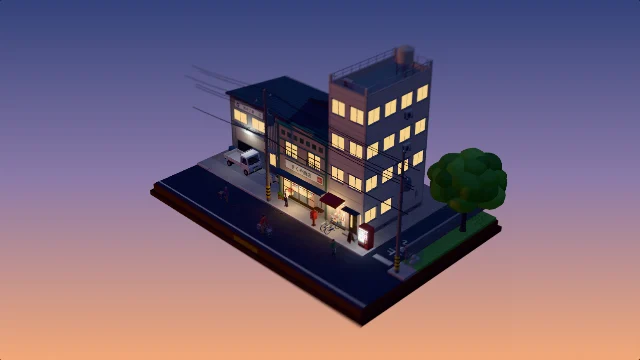
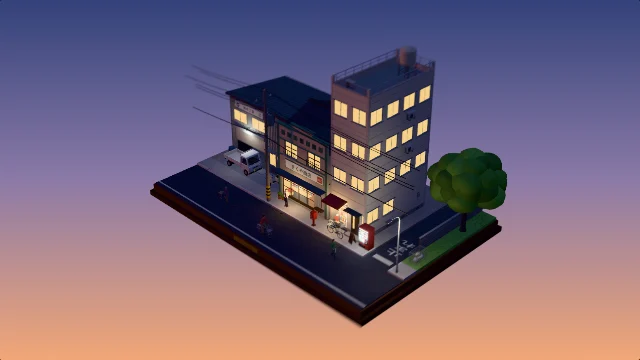
Stage 24: review fixes — one pole under the wires, wall inside the plot, room for the AC unit, bicycles along the curb, shared onRoad, named presets

Changed region(s): [[0.5, 0.1222, 0.7188, 0.8556], [0.5312, 0.1833, 0.5625, 0.2139]]

diff --git a/features/diorama/utils/shoppingStreetStarter.ts b/features/diorama/utils/shoppingStreetStarter.ts
@@ -1,10 +1,9 @@
-import { BUILDING_PRESETS } from "../assets/buildingPresets";
+import { NARROW_BUILDING_PRESET } from "../assets/buildingPresets";
 import type { DioramaObject, SurfaceMap } from "../types/diorama.types";
 import { BASE_TEMPLATES } from "./baseTemplates";
-import { BUILDING_GRID } from "./buildingParams";
-import { CORNER } from "./cornerLayout";
+import { BUILDING_GRID, buildingSize } from "./buildingParams";
 import { attach, createDioramaObject, place, run, runObject } from "./objectDefaults";
-import { patch, surfaceFrom, type GroundRect } from "./plotStarter";
+import { onRoad, patch, surfaceFrom, type GroundRect } from "./plotStarter";
 
 /**
  * The "Old Shopping Street" starter (plan/Stage-24-Implementation.md D3): a
@@ -12,20 +11,21 @@ import { patch, surfaceFrom, type GroundRect } from "./plotStarter";
  * the shop side. From the left: the workshop, set back behind a concrete
  * apron with a kei truck before its half-raised shutter; the old shop with
  * its tobacco window; the narrow four-storey building with a water tank on
- * its roof; a vending machine at the mouth of a back alley; beyond the alley
- * a walled lot with a tree. X runs −12 … 12, Z −8 … 8 (front). All numbers
+ * its roof; a vending machine and a street light at the mouth of a back
+ * alley; beyond the alley a walled lot with a tree. X runs −12 … 12, Z −8 … 8 (front). All numbers
  * are meters.
  */
 const WIDTH = 24;
 const DEPTH = 16;
-const ROAD_Y = CORNER.roadY;
 
 const SIDEWALK_Z = 2; // building fronts; the sidewalk runs from here to the street
 const STREET_Z = 3.5;
 const ALLEY = { x0: 8, x1: 10.5 };
 const WORKSHOP = { x: -7, z: -3.185 }; // its front at z 0, behind the apron
 const SHUTTER_X = WORKSHOP.x - 1.49; // building_workshop_01: the shutter's middle
-const NARROW = { x: 4.77, z: SIDEWALK_Z - (4 * BUILDING_GRID.bay) / 2 };
+const NARROW = buildingSize(NARROW_BUILDING_PRESET.params);
+// Clear of the old shop's AC unit (its right side, at x 3.13) and of the vending machine.
+const NARROW_X = 5.0;
 
 const GROUND: GroundRect[] = [
   ["concrete", -11.1, -2.9, 0, SIDEWALK_Z],
@@ -41,28 +41,24 @@ export function getShoppingStreetSurface(): SurfaceMap {
   return surfaceFrom(WIDTH, DEPTH, GROUND);
 }
 
-/** On the street or the alley, whose surface is lower than the lots. */
-function onRoad(object: DioramaObject): DioramaObject {
-  return { ...object, position: [object.position[0], ROAD_Y, object.position[2]] };
-}
-
 /** The narrow building with a water tank and AC units on its roof and its open side. */
 function narrowBuilding(): DioramaObject[] {
-  const { bay, groundFloor, upperFloor } = BUILDING_GRID;
+  const { groundFloor, upperFloor } = BUILDING_GRID;
   const building = createDioramaObject("building", 0, BASE_TEMPLATES.plot, {
-    position: [NARROW.x, 0, NARROW.z],
+    position: [NARROW_X, 0, SIDEWALK_Z - NARROW.depth / 2],
     rotation: [0, 0, 0],
-    params: BUILDING_PRESETS.find((preset) => preset.id === "narrow-building-4f")!.params,
+    params: NARROW_BUILDING_PRESET.params,
   });
-  const side = bay; // half its width
-  const roof = groundFloor + 3 * upperFloor;
+  const side = NARROW.width / 2;
+  const back = -NARROW.depth / 2;
+  const roof = NARROW.wallHeight;
   return [
     building,
-    attach(building, "waterTank", [0.4, roof, -2.2]),
-    attach(building, "airConditioner", [-0.9, roof, 2.6]),
+    attach(building, "waterTank", [0.4, roof, back + 1.44]),
+    attach(building, "airConditioner", [-0.9, roof, -back - 1.04]),
     attach(building, "airConditioner", [side + 0.2, groundFloor + upperFloor + 0.15, -0.9], Math.PI / 2),
     attach(building, "airConditioner", [side + 0.2, groundFloor + 2 * upperFloor + 0.15, -0.9], Math.PI / 2),
-    attach(building, "meterBox", [side, 1.25, -2.7], Math.PI / 2),
+    attach(building, "meterBox", [side, 1.25, back + 0.94], Math.PI / 2),
   ];
 }
 
@@ -86,23 +82,24 @@ export function getShoppingStreetObjects(): DioramaObject[] {
 
     // The narrow building, bicycles and an A-frame sign before it, a vending machine at the alley
     ...narrowBuilding(),
-    place("bicycle", 3.55, 2.65, half + 0.05),
-    place("bicycle", 4.15, 2.7, half - 0.06),
-    place("aFrameSign", 6.1, 2.75, -0.25),
-    place("vendingMachine", 7.35, 2.45),
+    // Bicycles parked along the curb: 1.8 m long, they do not fit across a 1.5 m sidewalk
+    place("bicycle", 4.3, 2.45, 0.05),
+    place("bicycle", 4.65, 3.0, Math.PI - 0.06),
+    place("aFrameSign", 6.25, 2.75, -0.25),
+    place("vendingMachine", 7.4, 2.45),
     place("postBox", 2.45, 3.15),
 
-    // Beyond the alley: a walled lot with a tree and the garbage cage at its corner
-    runObject("blockWall", [ALLEY.x1 + 0.075, -8], [ALLEY.x1 + 0.075, 1.2]),
+    // Beyond the alley: a walled lot with a tree, and the garbage cage where the wall ends
+    runObject("blockWall", [ALLEY.x1 + 0.075, -8], [ALLEY.x1 + 0.075, 0]),
     place("zelkovaTree", 11.2, -4.6, 0.7),
-    place("garbageStation", 11.25, 1.45, -half),
+    place("garbageStation", 11.25, 1.0, -half),
     patch("grass", 11.3, -6.6, 0.8, 2402),
     patch("weeds", 11.4, -1.2, 0.5, 2403),
 
-    // Poles along the sidewalk; one set of wires runs the plot's length through both
+    // A pole with its wires on the sidewalk (a span is 24 m, so a second pole could not meet them), a street light at the alley
     place("utilityPole", -2.8, 3.2),
     place("powerLine", -2.8, 3.2),
-    place("utilityPole", 11.1, 3.2),
+    place("streetLight", 11.1, 3.2),
 
     // The street and the alley
     onRoad(place("stopLine", (ALLEY.x0 + ALLEY.x1) / 2, STREET_Z - 0.9)),

diff --git a/features/diorama/assets/buildingPresets.ts b/features/diorama/assets/buildingPresets.ts
@@ -15,6 +15,51 @@ const NARROW = { baysX: 2, baysZ: 4 };
 const APARTMENT_UPPER = uniformFloor(APARTMENT_BLOCK, { front: "balcony", right: "windows", back: "blank", left: "windows" });
 const NARROW_UPPER = uniformFloor(NARROW, { front: "windows", right: "windows", back: "blank", left: "blank" });
 
+
+/** マンション: a balcony on every front bay above the entrance floor (Stage 24 D2). */
+export const APARTMENT_BLOCK_PRESET: BuildingPreset = {
+  id: "apartment-block-4f",
+  label: "Apartment Block 4F",
+  tags: ["apartment", "mansion", "block", "flats", "residential", "balcony"],
+  params: {
+    ...APARTMENT_BLOCK,
+    floors: [
+      {
+        front: ["windows", "entrance", "windows", "windows"],
+        right: ["windows", "windows", "windows"],
+        back: ["blank", "blank", "blank", "blank"],
+        left: ["windows", "blank", "windows"],
+      },
+      APARTMENT_UPPER,
+      APARTMENT_UPPER,
+      APARTMENT_UPPER,
+    ],
+    roof: "flat-rooftop",
+  },
+};
+
+/** ペンシルビル / 雑居ビル: a shop bay and a stair door below, offices above, a blank side against the neighbour (Stage 24 D2). */
+export const NARROW_BUILDING_PRESET: BuildingPreset = {
+  id: "narrow-building-4f",
+  label: "Narrow Building 4F",
+  tags: ["pencil building", "zakkyo", "narrow", "office", "shop", "commercial", "mixed-use"],
+  params: {
+    ...NARROW,
+    floors: [
+      {
+        front: ["shopfront", "entrance"],
+        right: ["windows", "windows", "blank", "blank"],
+        back: ["blank", "blank"],
+        left: ["blank", "blank", "blank", "blank"],
+      },
+      NARROW_UPPER,
+      NARROW_UPPER,
+      NARROW_UPPER,
+    ],
+    roof: "flat-rooftop",
+  },
+};
+
 /**
  * Starting points for the `building` type, offered in the asset browser.
  * A preset is only the params a new building starts with; the inspector
@@ -69,48 +114,8 @@ export const BUILDING_PRESETS: BuildingPreset[] = [
       roof: "hipped-tile",
     },
   },
-  {
-    // マンション: a balcony on every front bay above the entrance floor (Stage 24 D2).
-    id: "apartment-block-4f",
-    label: "Apartment Block 4F",
-    tags: ["apartment", "mansion", "block", "flats", "residential", "balcony"],
-    params: {
-      ...APARTMENT_BLOCK,
-      floors: [
-        {
-          front: ["windows", "entrance", "windows", "windows"],
-          right: ["windows", "windows", "windows"],
-          back: ["blank", "blank", "blank", "blank"],
-          left: ["windows", "blank", "windows"],
-        },
-        APARTMENT_UPPER,
-        APARTMENT_UPPER,
-        APARTMENT_UPPER,
-      ],
-      roof: "flat-rooftop",
-    },
-  },
-  {
-    // ペンシルビル / 雑居ビル: one bay of shop and one of stair door below, offices above, a blank side against the neighbour.
-    id: "narrow-building-4f",
-    label: "Narrow Building 4F",
-    tags: ["pencil building", "zakkyo", "narrow", "office", "shop", "commercial", "mixed-use"],
-    params: {
-      ...NARROW,
-      floors: [
-        {
-          front: ["shopfront", "entrance"],
-          right: ["windows", "windows", "blank", "blank"],
-          back: ["blank", "blank"],
-          left: ["blank", "blank", "blank", "blank"],
-        },
-        NARROW_UPPER,
-        NARROW_UPPER,
-        NARROW_UPPER,
-      ],
-      roof: "flat-rooftop",
-    },
-  },
+  APARTMENT_BLOCK_PRESET,
+  NARROW_BUILDING_PRESET,
 ];
 
 /** What a building without (valid) params falls back to. */

diff --git a/features/diorama/utils/plotStarter.ts b/features/diorama/utils/plotStarter.ts
@@ -60,6 +60,11 @@ export function getBackStreetSurface(): SurfaceMap {
   return surfaceFrom(WIDTH, DEPTH, GROUND);
 }
 
+/** An object moved down onto a plot's road, whose surface is lower than everything else. */
+export function onRoad(object: DioramaObject): DioramaObject {
+  return { ...object, position: [object.position[0], ROAD_Y, object.position[2]] };
+}
+
 /** A round patch of scatter at a world position. */
 export function patch(kind: "leaves" | "grass" | "weeds", x: number, z: number, radius: number, seed: number): DioramaObject {
   return createDioramaObject("scatter", 0, BASE_TEMPLATES.plot, {
@@ -121,7 +126,7 @@ export function getBackStreetObjects(): DioramaObject[] {
     // Roads: markings, a manhole, grates, and someone crossing
     place("crosswalk", CROSSWALK_X, 5.75, half, undefined, ROAD_Y),
     place("stopLine", 3.5, 2.6, 0, undefined, ROAD_Y),
-    ...run("roadLine", 4, [-12, 7.5], [12, 7.5]).map((line) => ({ ...line, position: [line.position[0], ROAD_Y, line.position[2]] as [number, number, number] })),
+    ...run("roadLine", 4, [-12, 7.5], [12, 7.5]).map(onRoad),
     place("manhole", -1.0, 5.8, 0, undefined, ROAD_Y),
     place("gutterGrate", -2.0, 3.65, 0, undefined, ROAD_Y),
     place("gutterGrate", 8.0, 3.65, 0, undefined, ROAD_Y),

diff --git a/features/diorama/utils/residentialStarter.ts b/features/diorama/utils/residentialStarter.ts
@@ -1,7 +1,6 @@
 import type { DioramaObject, SurfaceMap } from "../types/diorama.types";
-import { CORNER } from "./cornerLayout";
 import { place, run, runObject } from "./objectDefaults";
-import { patch, surfaceFrom, type GroundRect } from "./plotStarter";
+import { onRoad, patch, surfaceFrom, type GroundRect } from "./plotStarter";
 
 /**
  * The "Residential Lane" starter (plan/Stage-15-Implementation.md D4): a
@@ -17,7 +16,6 @@ import { patch, surfaceFrom, type GroundRect } from "./plotStarter";
  */
 const WIDTH = 24;
 const DEPTH = 16;
-const ROAD_Y = CORNER.roadY;
 
 const LANE_Z = 4.5; // the lane runs from here to the front edge
 const ALLEY = { x0: -1, x1: 2 };
@@ -41,11 +39,6 @@ const GROUND: GroundRect[] = [
 
 export function getResidentialSurface(): SurfaceMap {
   return surfaceFrom(WIDTH, DEPTH, GROUND);
-}
-
-/** On the lane or the alley, whose surface is lower than the lots. */
-function onRoad(object: DioramaObject): DioramaObject {
-  return { ...object, position: [object.position[0], ROAD_Y, object.position[2]] };
 }
 
 /** Fresh objects of the Residential Lane scene, with new ids on every call. */

diff --git a/plan/Stage-24-Implementation.md b/plan/Stage-24-Implementation.md
@@ -239,8 +239,27 @@ A 24 × 16 m plot built in code like the Residential Lane
   behind the row there are only 3 m. So the narrow building carries the
   rooftop props (a water tank, an AC unit) that D2 meant for the apartment
   block, and the right end is an alley and a walled lot with a tree.
-* One set of wires instead of two: a `powerLine` already runs the plot's
-  length, so the second pole stands under the first one's wires.
+* One pole with wires instead of two, and a street light at the alley (see
+  the review fixes).
+
+### Review fixes (`/code-review high`, 2026-11-10)
+
+* **A second pole the wires missed:** a `powerLine` spans 24 m
+  (`poleLayout.json`), so wires from the pole at x −2.8 sagged through a
+  pole 13.9 m away. That pole is now a street light.
+* **A block wall past the plot's back edge:** 9.2 m rounded up to five 2 m
+  pieces; it is now 8 m (four), with the garbage cage where it ends.
+* **The old shop's AC unit in the narrow building's wall:** the narrow
+  building moved from x 4.77 to 5.0.
+* **Bicycles across a 1.5 m sidewalk** (1.8 m long, into the shopfront and
+  over the curb): parked along the curb instead.
+* **The narrow building's size and roof height** come from
+  `buildingSize(NARROW_BUILDING_PRESET.params)`, not copied numbers.
+* **`onRoad` was copied in two starters and inlined in a third:** one export
+  in `plotStarter.ts`, used by all three.
+* **`BUILDING_PRESETS.find(...)!` by id:** the two new presets are named
+  exports (`APARTMENT_BLOCK_PRESET`, `NARROW_BUILDING_PRESET`), so the
+  starter refers to its preset by a symbol.
 
 ### Verification
 
@@ -261,7 +280,12 @@ A 24 × 16 m plot built in code like the Residential Lane
   on the branch differ by at most 19 of 255 (Autumn Street Corner), 12
   (Back Street) and 0 (Residential Lane), within the 19 / 25 / 0 that two
   renders of the branch differ by. (The committed images differ more from
-  either: they were rendered in an earlier stage.)
+  either: they were rendered in an earlier stage.) After the `onRoad`
+  refactor, Residential Lane's render differs from `main` in 77 pixels
+  (at most 16 of 255, round the street light) on two captures, but its
+  scene data — environment and every object without ids — is identical
+  to the old file's, compared as JSON in the browser; so the starters'
+  scenes are unchanged and the difference is the renderer's.
 * **Frame rate** (`measure-scene.mjs`, 1920 × 1080): the starter 180 fps in
   the editor (71 draw calls, 75 k triangles) and 165 in Preview; 100
   buildings alternating workshop and old shop 180 / 179 fps (404 draw
